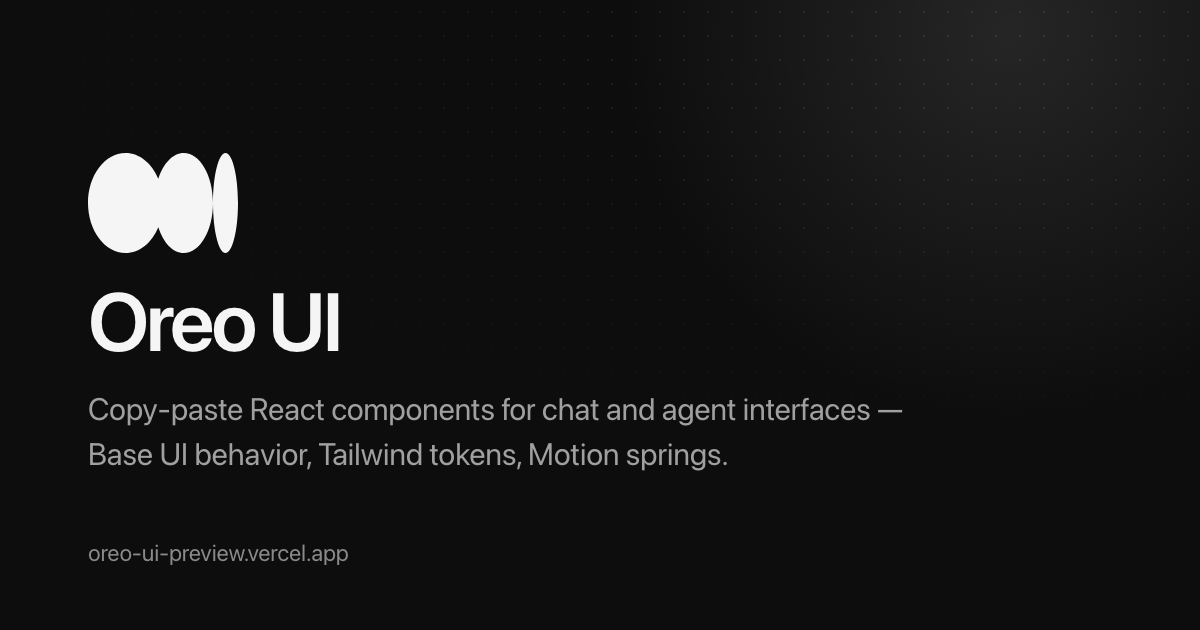
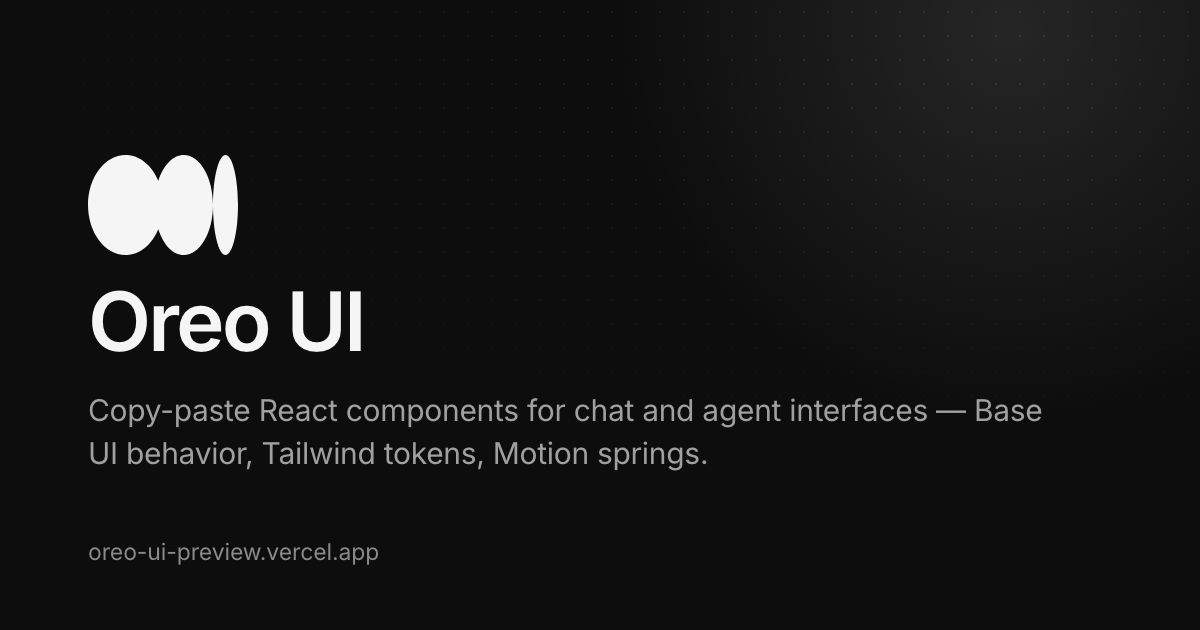
Self-host Inter so the site renders in the typeface it declares
index.css asked for "Inter" but nothing ever loaded it, so every visitor
saw the system UI face instead of the typeface the Figma tokens were drawn
in. Pull it in from @fontsource-variable/inter (variable weight, upright +
italic, unicode-range gated — a latin reader downloads 48 kB) and match the
family name. The social card is re-rendered in Inter to match.

diff --git a/src/main.tsx b/src/main.tsx
@@ -2,6 +2,10 @@ import { StrictMode } from "react";
 import { createRoot } from "react-dom/client";
 import { Analytics } from "@vercel/analytics/react";
 import App from "./App";
+// Self-hosted Inter (variable weight axis, upright + italic). Subsets are
+// unicode-range gated, so a visitor only downloads the ones their text needs.
+import "@fontsource-variable/inter";
+import "@fontsource-variable/inter/wght-italic.css";
 import "./index.css";
 
 createRoot(document.getElementById("root")!).render(

diff --git a/src/index.css b/src/index.css
@@ -176,7 +176,10 @@
 
 body {
   margin: 0;
-  font-family: "Inter", system-ui, sans-serif;
+  /* "Inter Variable" is the family name shipped by @fontsource-variable/inter
+     (self-hosted, imported in main.tsx); plain "Inter" catches a locally
+     installed copy before we fall back to the system UI face. */
+  font-family: "Inter Variable", "Inter", system-ui, sans-serif;
   background: var(--color-bg-elevated);
   color: var(--color-text-primary);
   -webkit-font-smoothing: antialiased;
